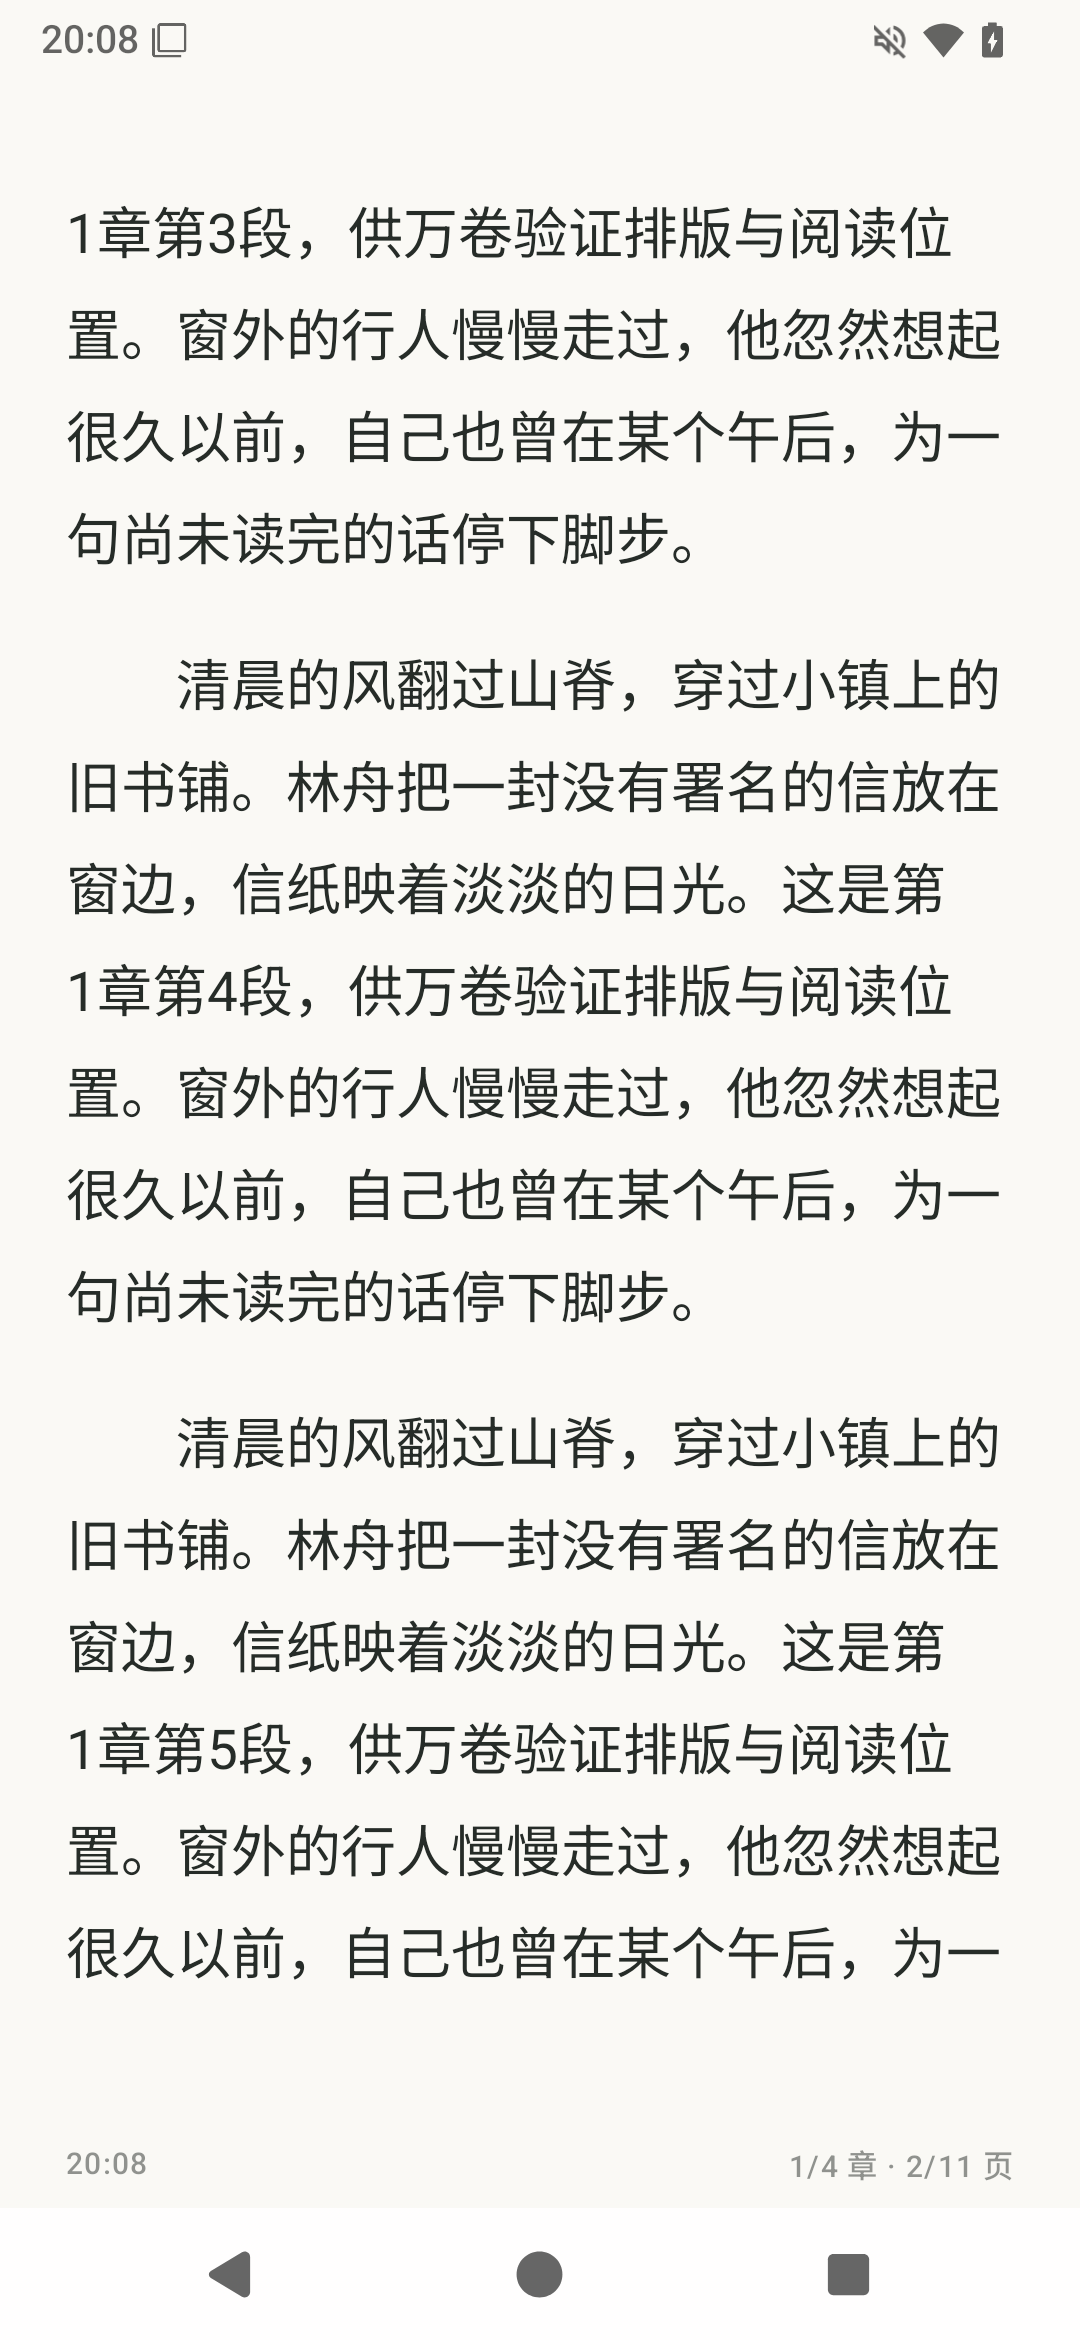
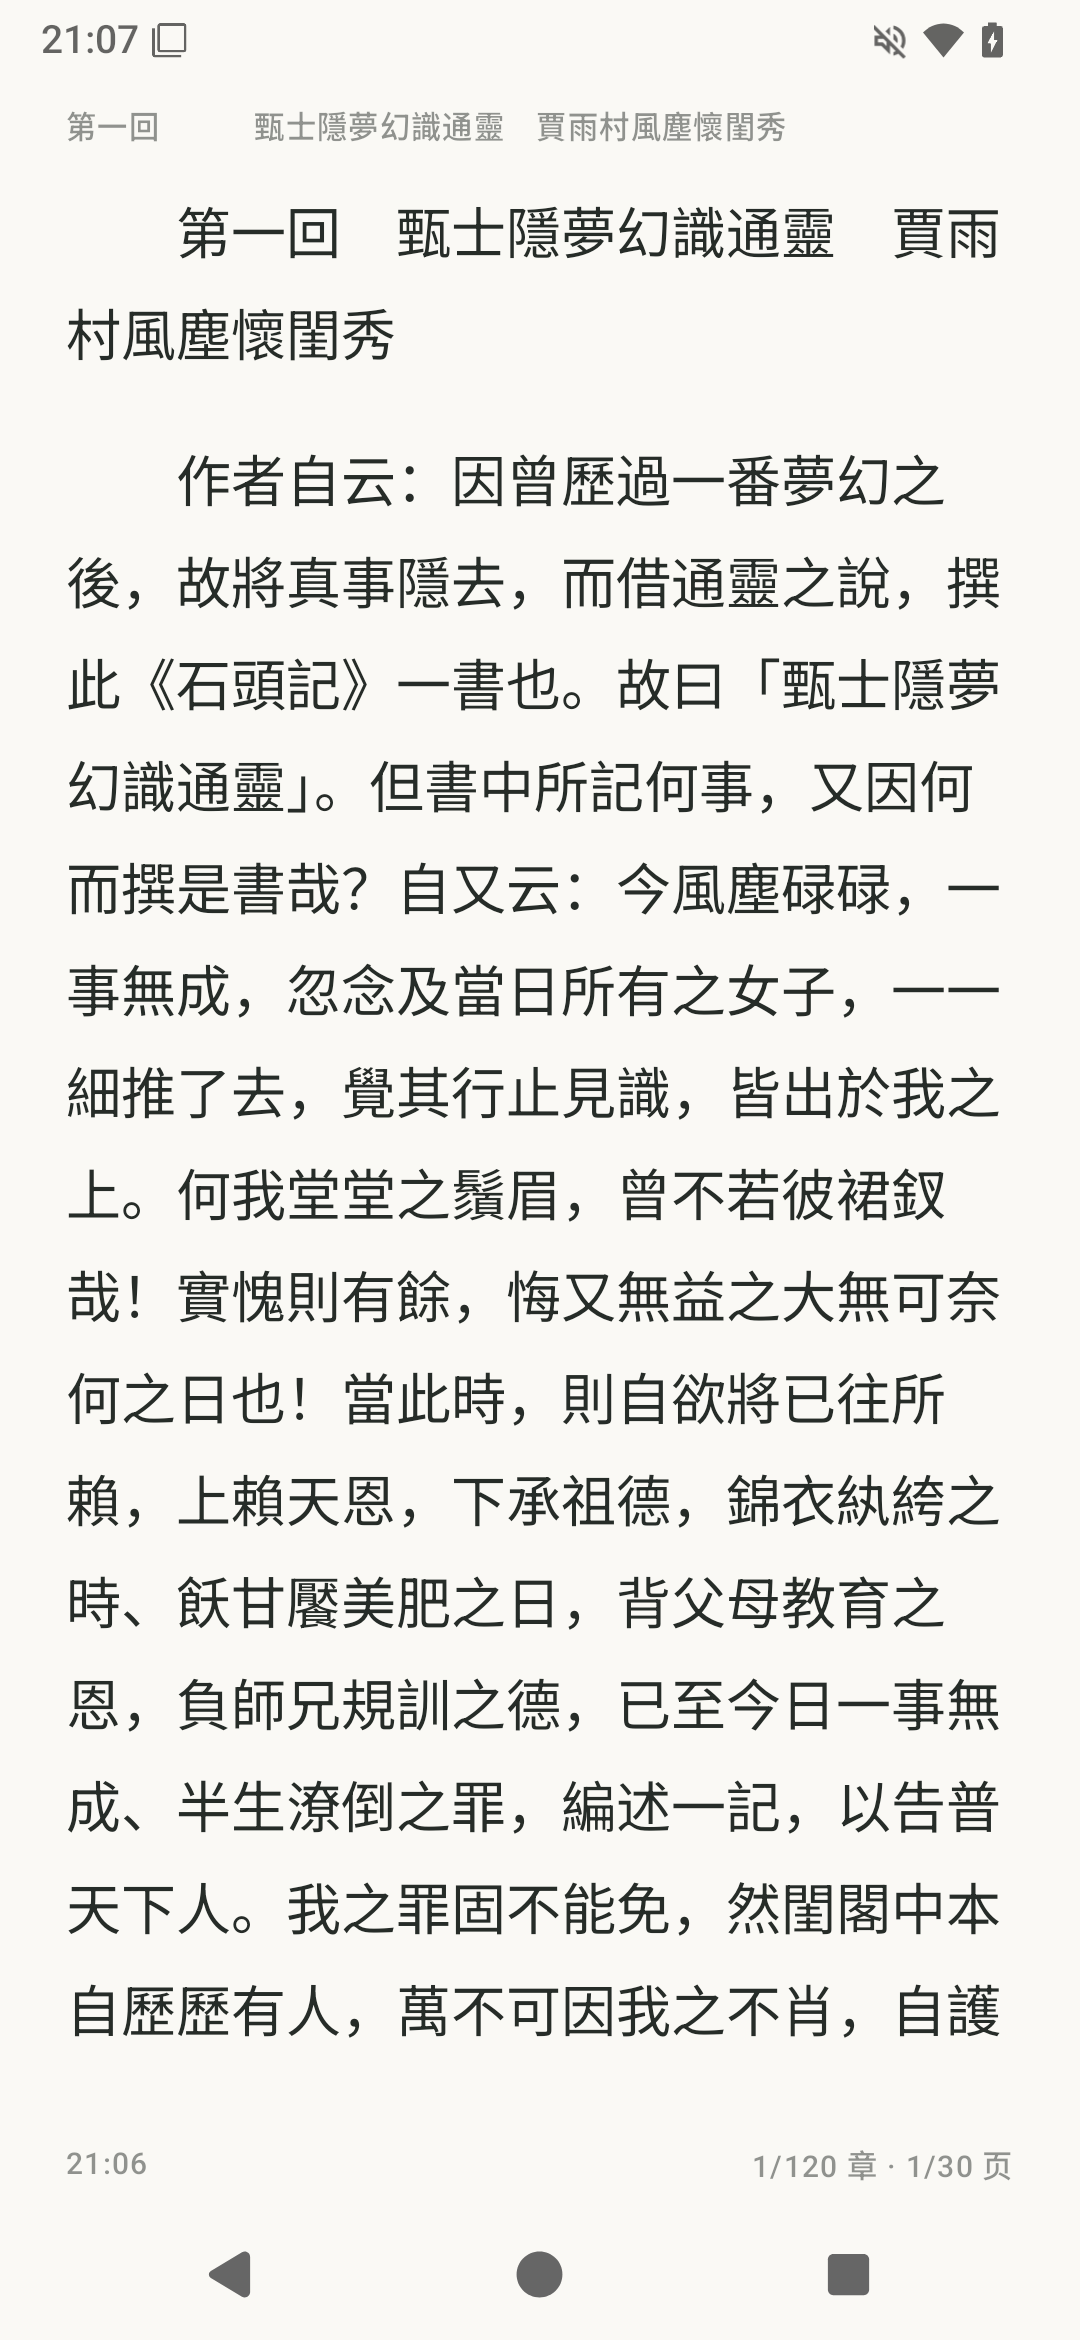
Record signed release verification and reader performance measurements

diff --git a/docs/TESTING.md b/docs/TESTING.md
@@ -16,6 +16,30 @@
 
 本地证据：`artifacts/011-phone-release-gate.log`、`artifacts/011-android10-release-gate.log`、`artifacts/011-system-bars-build.log`，以及 JVM XML。联网测试默认跳过，发布验收时使用 `am instrument -w -r -e liveSources true io.github.godbook.wanjuan.debug.test/androidx.test.runner.AndroidJUnitRunner` 显式启用。
 
+### 0.1.1 正式包与同机性能对比
+
+发布包来自 GitHub Actions `38738980553`，生产源码提交 `9d2fb53`；该签名构建及 Android checks `38738978460` 均成功，包含 Release Lint 检查。包名不变，versionCode 101 / versionName 0.1.1。APK 为 4,997,317 字节，比 0.1.0 增加 32 KiB。
+
[1 lines of base64/hex data omitted]
+
+正式签名包还通过实际界面的“搜索 → 选择来源 → 开始阅读”分别打开维基文库及古登堡《红楼梦》，确认正文可见且无目录导航残留。
+
+本轮通过 adb 同签名覆盖安装正式包，确认版本升至 101，书架仍保留《山间来信》，三轮往返翻页后均回到原第 1 章第 2 / 11 页。0.1.0 的真实应用内更新验收记录保留在下方；本轮覆盖安装不冒充再次执行了在线安装器流程。
+
+对比方法：同一台小米 9 SE、1080×2340、默认排版与覆盖翻页、同一部自编测试小说《山间来信》；每轮强制停止应用后启动，从书架进入原位置，等待 2 秒，重置 `gfxinfo`，执行 10 组“下一页→上一页”（共 20 次翻页，每次后等待 0.3 秒），随后读取 `gfxinfo` 与 `meminfo`。每版独立执行三轮，均采集 240 帧。表中展示三轮中位数，并保留全部样本：
+
+| 指标 | 0.1.0 | 0.1.1 |
+| --- | --- | --- |
+| 翻页后 PSS | 217,317 KiB（约 212.2 MiB） | 73,167 KiB（约 71.5 MiB） |
+| 翻页后 RSS | 322,476 KiB | 177,552 KiB |
+| 帧耗时 P95 | 20 ms | 17 ms |
+| Janky frames | 20 / 240（8.33%） | 17 / 240（7.08%） |
+| 冷启动 TotalTime | 346 ms | 374 ms |
+
+PSS 约下降 66.3%，P95 约下降 15%。冷启动没有改善，不能宣传为全方位提速。原始三轮 PSS 分别为旧版 `216444 / 217317 / 217531`、新版 `74746 / 73163 / 73167` KiB；P95 为 `21 / 20 / 20` 和 `17 / 16 / 17` ms；冷启动为 `353 / 335 / 346` 和 `453 / 374 / 374` ms。
+
+这是固定场景的短时采样，不是长期内存上限、所有设备的流畅度保证或耗电结论。正式包、原始结果与执行脚本保存在本地 `artifacts/release-0.1.1/`、`artifacts/before-011*`、`artifacts/after-011*`、`artifacts/011-performance-before.json`、`artifacts/011-performance-after.json` 和 `artifacts/measure-reader.ps1`。
+
 以下保留 0.1.0 的历史验收记录。
 
 ## 环境

diff --git a/README.md b/README.md
@@ -18,11 +18,11 @@
 
 ## 实机界面
 
-以下为 Android 15 实体手机上的正式版本截图，正文为自编测试小说《山间来信》。
+以下为 Android 15 实体手机实测界面，正文展示内置维基文库版本《红楼梦》。
 
-<img src="docs/images/shelf.png" alt="万卷书架" width="270"> <img src="docs/images/reader.png" alt="万卷阅读页" width="270">
+<img src="docs/images/shelf.png" alt="万卷书架" width="240"> <img src="docs/images/reader.png" alt="万卷阅读页" width="240"> <img src="docs/images/dark.png" alt="万卷深色搜索界面" width="240">
 
-0.1.1 已通过 14 项 JVM 单元测试、Android 15 实机与 Android 10 模拟器各 10 项仪器测试，包含两个内置书源的真实联网读取、快速翻页、滚动和备份恢复。详细范围与未覆盖项见 [验证记录](docs/TESTING.md)。
+0.1.1 已通过 14 项 JVM 单元测试、Android 15 实机与 Android 10 模拟器各 10 项仪器测试，包含两个内置书源的真实联网读取、快速翻页、滚动和备份恢复。同机固定翻页场景三轮采样中，PSS 中位数约 212 → 71 MiB，帧耗时 P95 为 20 → 17 ms；冷启动没有改善。详细条件、范围与未覆盖项见 [验证记录](docs/TESTING.md)。
 
 ## 开发
 

diff --git a/docs/releases/0.1.1.md b/docs/releases/0.1.1.md
@@ -7,3 +7,5 @@
 - 修复新增书源初始化状态的备份恢复，以及古登堡版本的硬换行、卷首制作说明和特殊数字分章。
 
 Android 10 及以上。下载 `wanjuan-0.1.1.apk`，或在旧版“设置 → 检查更新”升级；同签名覆盖安装保留数据。内置书源是明确的经典书目索引，非全站搜索；其他在线小说继续支持自行导入书源。
+
+验证：14 项单元测试、Android 15 实机与 Android 10 模拟器各 10 项仪器测试通过，包含六个经典版本的真实联网读取。正式包在同机三轮、每轮 20 次翻页采样中，PSS 中位数由约 212 MiB 降至 71 MiB，帧耗时 P95 由 20 ms 降至 17 ms。冷启动中位数由 346 ms 变为 374 ms；短时结果不代表长期性能。
